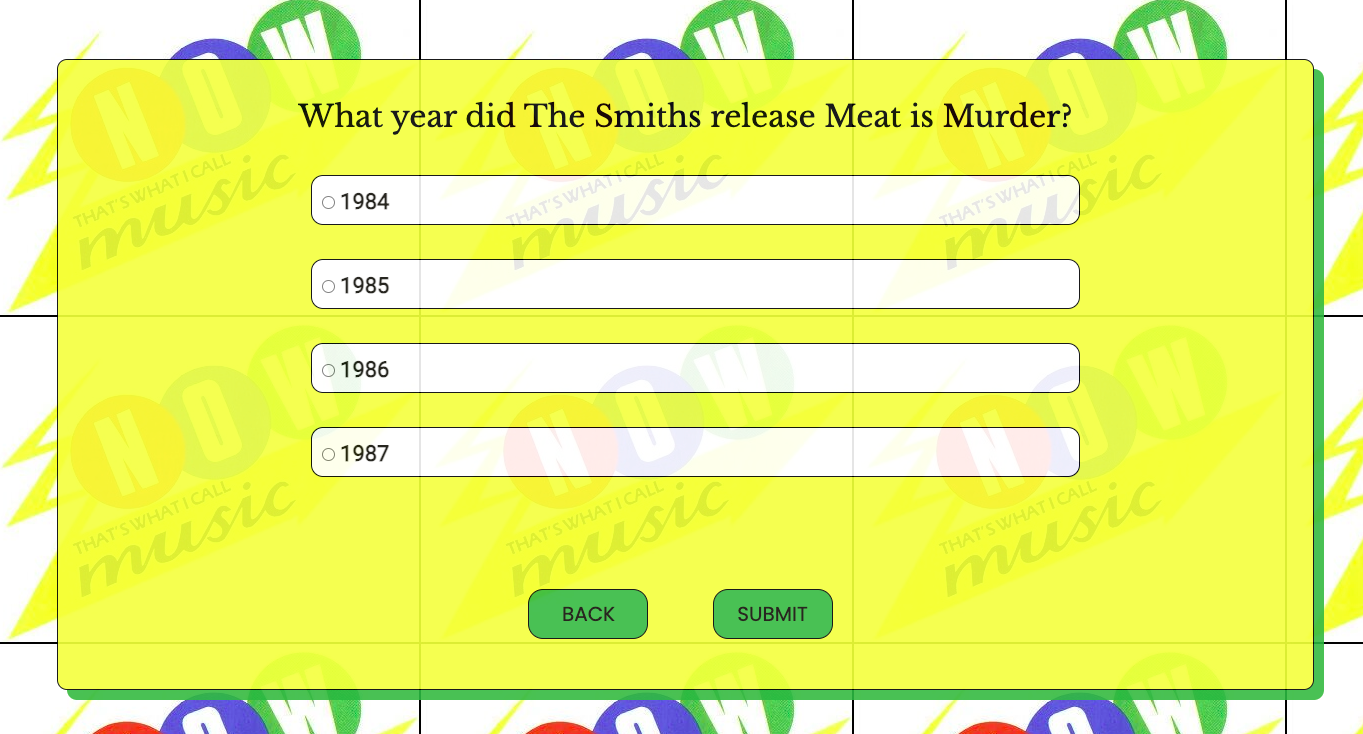
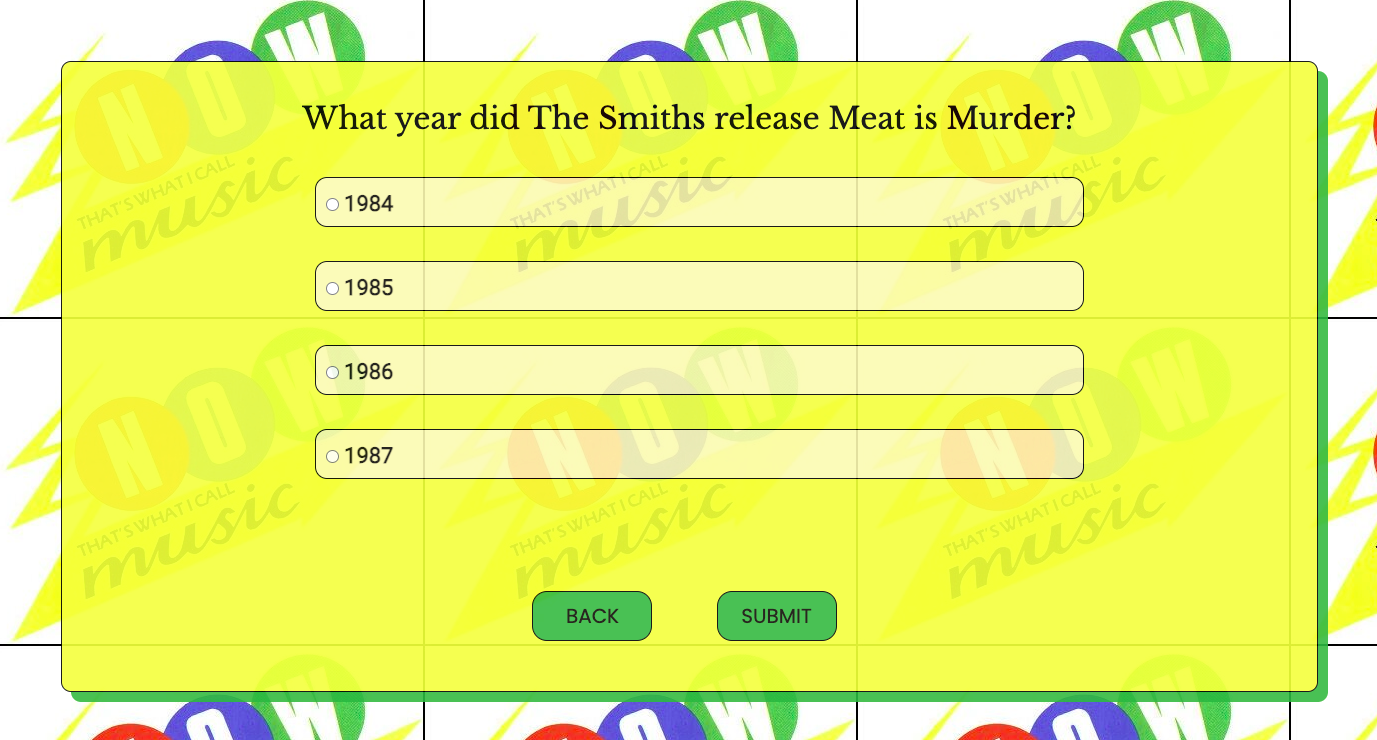
Add Color Styling to Quiz Questions

diff --git a/assets/css/style.css b/assets/css/style.css
@@ -118,6 +118,7 @@ div ul {
     color: #e8533c;
     text-align: center;
     list-style: none;
+    margin: 20px 20px;
 }
 
 #information-btns {

diff --git a/README.md b/README.md
@@ -87,43 +87,11 @@ The Information page gives simple instructions on how to complete the quiz and w
 
 <br>
 
-
-## Navigation
-
-<br>
-
-   * The Navigation Bar is featured on all 4 pages of the website.
-
-   * The top left-hand side of the page features the website Name: Dublin City Walks. There is no active link attached to this logo.
-
-   * Active navigation links reside to the top right-hand side of the page. They are as follows: Home, Walks, Gallery, Contact. These link to 3 further separate pages in the website.
-
-   * The links created give a good overview of what the website is conveying and creates a simplistic, clean view of how one should navigate the site. 
-
-   * Prevailing colours for the Navigation bar were designed in a contrasting black and white *(Figure 1.1)*
-
-   * A hover red option with a text decoration underline is present on all Navigation links on all pages *(Figure 1.2)*  
-
-   * A hamburger menu was initially entertained and created, but the inclusion of JavaScript felt it wouldn't be within the remit of Portfolio requirements. This could be an option for later Portfolio submissions.
-
-
-<br><br>
-
-   ![Image of Navigation Bar](assets/images/navigation-bar.png)
-   *Figure 1.1*
-   <br><br>
-
-   ![Image of Navigation Bar:Hover](assets/images/navigationbar-hover.png)
-   *Figure 1.2*
-
-<br><br>
-
-
 ## The Start Page
 
 <br>
 
-  * The Home Page consists of the quintessentially unmistakeable backdrop of an iconic landmark in that of the H'apenny Bridge. Plenty of feet have tread this bridge for centuries so it felt appropriate to make this a centrepoint image on the landing page.
+  * The Start Page consists of the quintessentially unmistakeable backdrop of an iconic landmark in that of the H'apenny Bridge. Plenty of feet have tread this bridge for centuries so it felt appropriate to make this a centrepoint image on the landing page.
 
   * The logo sentiment is reiterated and also an added textual sentiment is present to indicate that Dublin is an exciting city that is built for walking.
 
